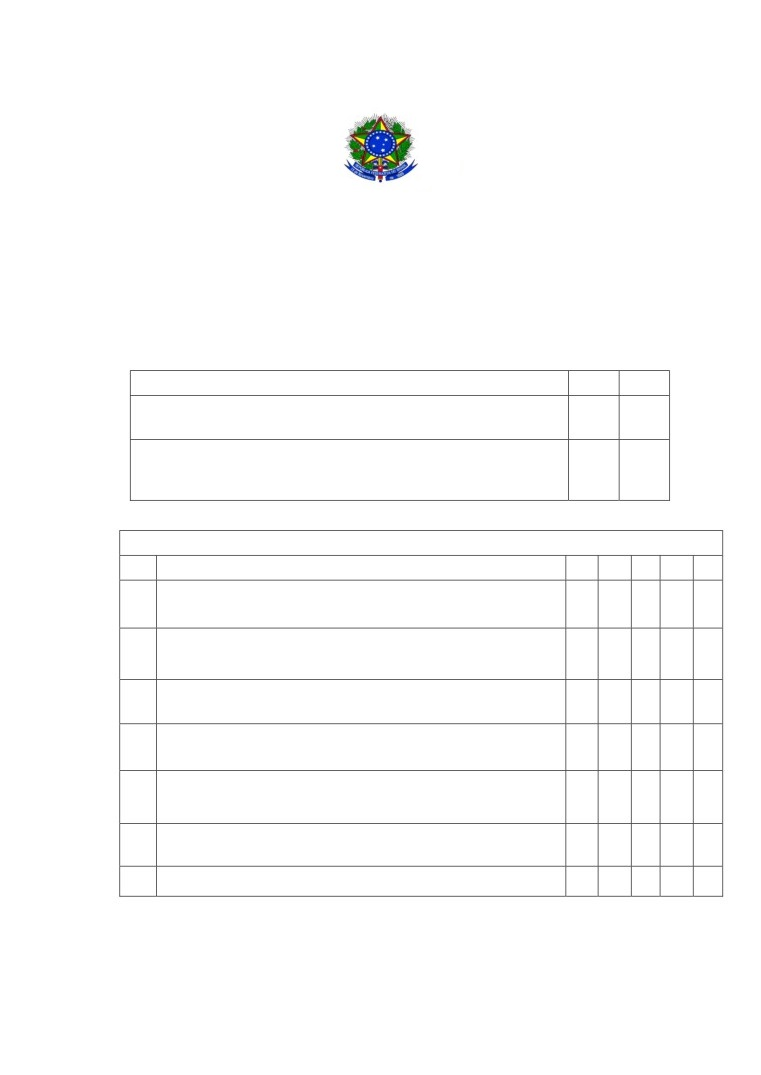
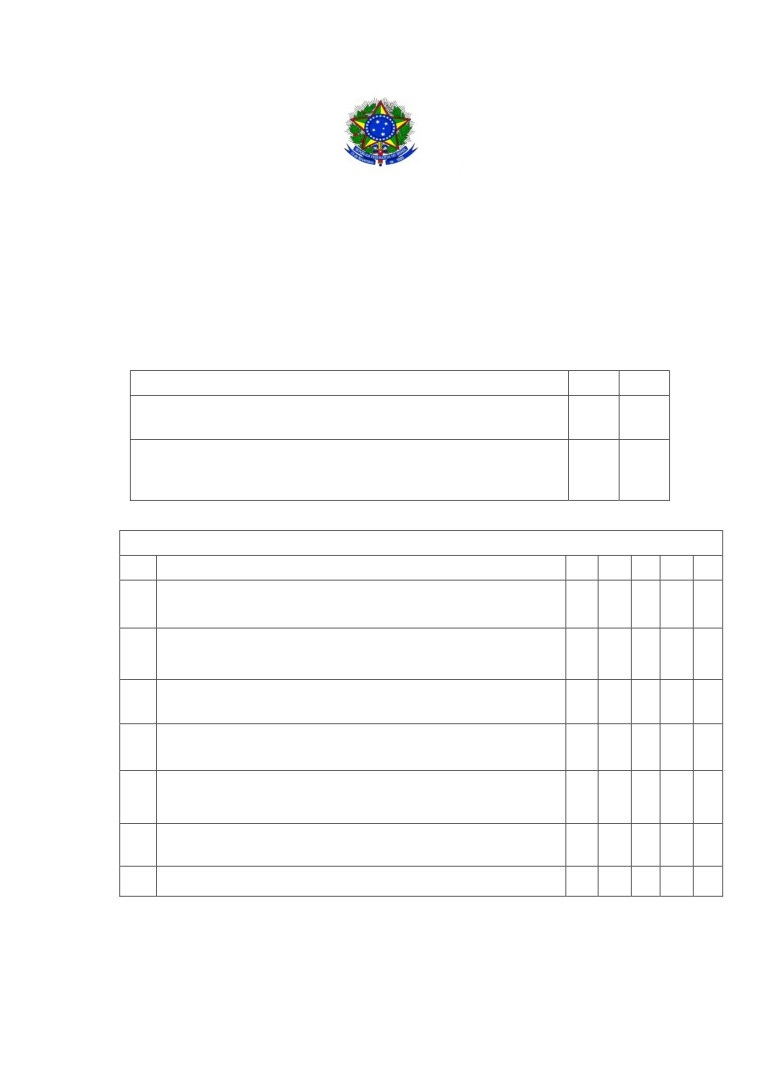
Update: formatacao dos pdfs

Changed region(s): [[0.4534, 0.0921, 0.544, 0.1842]]

diff --git a/PDFs/relatorioEstagio.php b/PDFs/relatorioEstagio.php
@@ -52,10 +52,14 @@ if ($result = $conexao->query($query)) {
         header("Location: ../login.php");
     } else {
         $nomeEmpresa = $resultado["nome"];
+        $cnpjEmpresa = $resultado["cnpjCpf"];
+        $enderecoEmpresa = $resultado["endereco"];
+        $bairroEmpresa = $resultado["bairro"];
         $cidadeEmpresa = $resultado["cidade"];
         $estadoEmpresa = $resultado["uf"];
-        $emailEmpresa = $resultado["email"];
+        $cepEmpresa = $resultado["cep"];   
         $telefoneEmpresa = $resultado["telefone"];
+        $emailEmpresa = $resultado["email"];
     }
 }
 
@@ -372,9 +376,9 @@ $string = '<html>
     <div style="position:absolute;left:50%;margin-left:-297px;top:0px;width:595px;height:841px;border-style:outset;overflow:hidden">
         <div style="position:absolute;left:0px;top:0px">
             <img src="HTML/relatorioEstagio/background1.jpg" width=595 height=841></div>
-        <div style="position:absolute;left:258.72px;top:139.96px" class="cls_003"><span class="cls_003">MINISTÉRIO DA EDUCAÇÃO</span></div>
-        <div style="position:absolute;left:195.48px;top:149.20px" class="cls_003"><span class="cls_003">SECRETARIA DE EDUCAÇÃO PROFISSIONAL E TECNOLÓGICA</span></div>
-        <div style="position:absolute;left:101.88px;top:158.32px" class="cls_003"><span class="cls_003">INSTITUTO FEDERAL DE EDUCAÇÃO, CIÊNCIA E TECNOLOGIA DO SUL DE MINAS GERAIS - CAMPUS POÇOS DE CALDAS</span></div>
+        <div style="position:absolute;left:242.72px;top:139.96px" class="cls_003"><span class="cls_003">MINISTÉRIO DA EDUCAÇÃO</span></div>
+        <div style="position:absolute;left:186.48px;top:149.20px" class="cls_003"><span class="cls_003">SECRETARIA DE EDUCAÇÃO PROFISSIONAL E TECNOLÓGICA</span></div>
+        <div style="position:absolute;left:82.88px;top:158.32px" class="cls_003"><span class="cls_003">INSTITUTO FEDERAL DE EDUCAÇÃO, CIÊNCIA E TECNOLOGIA DO SUL DE MINAS GERAIS - CAMPUS POÇOS DE CALDAS</span></div>
         <div style="position:absolute;left:138.12px;top:176.68px" class="cls_004"><span class="cls_004">Avenida Dirce Pereira Rosa, 300 - Jardim Esperança - CEP 37703-100 - Poços de Caldas (MG)</span></div>
         <div style="position:absolute;left:192.72px;top:184.00px" class="cls_004"><span class="cls_004">Telefone: (35) 3697-4950 / </span><A HREF="https://portal.pcs.ifsuldeminas.edu.br/">https://portal.pcs.ifsuldeminas.edu.br/</A> </span></div>
         <div style="position:absolute;left:400.92px;top:273.28px" class="cls_008"><span class="cls_008"><b>'.$nomeAluno.'</b></span></div>
@@ -387,9 +391,9 @@ $string = '<html>
     <div style="position:absolute;left:50%;margin-left:-297px;top:0px;width:595px;height:841px;border-style:outset;overflow:hidden">
         <div style="position:absolute;left:0px;top:0px">
             <img src="HTML/relatorioEstagio/background2.jpg" width=595 height=841></div>
-        <div style="position:absolute;left:258.72px;top:139.96px" class="cls_003"><span class="cls_003">MINISTÉRIO DA EDUCAÇÃO</span></div>
-        <div style="position:absolute;left:195.48px;top:149.20px" class="cls_003"><span class="cls_003">SECRETARIA DE EDUCAÇÃO PROFISSIONAL E TECNOLÓGICA</span></div>
-        <div style="position:absolute;left:101.88px;top:158.32px" class="cls_003"><span class="cls_003">INSTITUTO FEDERAL DE EDUCAÇÃO, CIÊNCIA E TECNOLOGIA DO SUL DE MINAS GERAIS - CAMPUS POÇOS DE CALDAS</span></div>
+        <div style="position:absolute;left:242.72px;top:139.96px" class="cls_003"><span class="cls_003">MINISTÉRIO DA EDUCAÇÃO</span></div>
+        <div style="position:absolute;left:186.48px;top:149.20px" class="cls_003"><span class="cls_003">SECRETARIA DE EDUCAÇÃO PROFISSIONAL E TECNOLÓGICA</span></div>
+        <div style="position:absolute;left:82.88px;top:158.32px" class="cls_003"><span class="cls_003">INSTITUTO FEDERAL DE EDUCAÇÃO, CIÊNCIA E TECNOLOGIA DO SUL DE MINAS GERAIS - CAMPUS POÇOS DE CALDAS</span></div>
         <div style="position:absolute;left:138.12px;top:176.68px" class="cls_004"><span class="cls_004">Avenida Dirce Pereira Rosa, 300 - Jardim Esperança - CEP 37703-100 - Poços de Caldas (MG)</span></div>
         <div style="position:absolute;left:192.72px;top:184.00px" class="cls_004"><span class="cls_004">Telefone: (35) 3697-4950 / </span><A HREF="https://portal.pcs.ifsuldeminas.edu.br/">https://portal.pcs.ifsuldeminas.edu.br/</A> </span></div>
         <div style="position:absolute;left:211.68px;top:215.56px" class="cls_014"><span class="cls_014"><b>RELATÓRIO DE ESTÁGIO</b></span></div>
@@ -409,9 +413,9 @@ $string = '<html>
     <div style="position:absolute;left:50%;margin-left:-297px;top:0px;width:595px;height:841px;border-style:outset;overflow:hidden">
         <div style="position:absolute;left:0px;top:0px">
             <img src="HTML/relatorioEstagio/background3.jpg" width=595 height=841></div>
-        <div style="position:absolute;left:258.72px;top:139.96px" class="cls_003"><span class="cls_003">MINISTÉRIO DA EDUCAÇÃO</span></div>
-        <div style="position:absolute;left:195.48px;top:149.20px" class="cls_003"><span class="cls_003">SECRETARIA DE EDUCAÇÃO PROFISSIONAL E TECNOLÓGICA</span></div>
-        <div style="position:absolute;left:101.88px;top:158.32px" class="cls_003"><span class="cls_003">INSTITUTO FEDERAL DE EDUCAÇÃO, CIÊNCIA E TECNOLOGIA DO SUL DE MINAS GERAIS - CAMPUS POÇOS DE CALDAS</span></div>
+        <div style="position:absolute;left:242.72px;top:139.96px" class="cls_003"><span class="cls_003">MINISTÉRIO DA EDUCAÇÃO</span></div>
+        <div style="position:absolute;left:186.48px;top:149.20px" class="cls_003"><span class="cls_003">SECRETARIA DE EDUCAÇÃO PROFISSIONAL E TECNOLÓGICA</span></div>
+        <div style="position:absolute;left:82.88px;top:158.32px" class="cls_003"><span class="cls_003">INSTITUTO FEDERAL DE EDUCAÇÃO, CIÊNCIA E TECNOLOGIA DO SUL DE MINAS GERAIS - CAMPUS POÇOS DE CALDAS</span></div>
         <div style="position:absolute;left:138.12px;top:176.68px" class="cls_004"><span class="cls_004">Avenida Dirce Pereira Rosa, 300 - Jardim Esperança - CEP 37703-100 - Poços de Caldas (MG)</span></div>
         <div style="position:absolute;left:192.72px;top:184.00px" class="cls_004"><span class="cls_004">Telefone: (35) 3697-4950 / </span><A HREF="https://portal.pcs.ifsuldeminas.edu.br/">https://portal.pcs.ifsuldeminas.edu.br/</A> </span></div>
         <div style="position:absolute;left:157.08px;top:202.24px" class="cls_005"><span class="cls_005">Relatório de Estágio apresentado como requisito para a conclusão do</span></div>
@@ -437,9 +441,9 @@ $string = '<html>
     <div style="position:absolute;left:50%;margin-left:-297px;top:0px;width:595px;height:841px;border-style:outset;overflow:hidden">
         <div style="position:absolute;left:0px;top:0px">
             <img src="HTML/relatorioEstagio/background4.jpg" width=595 height=841></div>
-        <div style="position:absolute;left:258.72px;top:139.96px" class="cls_003"><span class="cls_003">MINISTÉRIO DA EDUCAÇÃO</span></div>
-        <div style="position:absolute;left:195.48px;top:149.20px" class="cls_003"><span class="cls_003">SECRETARIA DE EDUCAÇÃO PROFISSIONAL E TECNOLÓGICA</span></div>
-        <div style="position:absolute;left:101.88px;top:158.32px" class="cls_003"><span class="cls_003">INSTITUTO FEDERAL DE EDUCAÇÃO, CIÊNCIA E TECNOLOGIA DO SUL DE MINAS GERAIS - CAMPUS POÇOS DE CALDAS</span></div>
+        <div style="position:absolute;left:242.72px;top:139.96px" class="cls_003"><span class="cls_003">MINISTÉRIO DA EDUCAÇÃO</span></div>
+        <div style="position:absolute;left:186.48px;top:149.20px" class="cls_003"><span class="cls_003">SECRETARIA DE EDUCAÇÃO PROFISSIONAL E TECNOLÓGICA</span></div>
+        <div style="position:absolute;left:82.88px;top:158.32px" class="cls_003"><span class="cls_003">INSTITUTO FEDERAL DE EDUCAÇÃO, CIÊNCIA E TECNOLOGIA DO SUL DE MINAS GERAIS - CAMPUS POÇOS DE CALDAS</span></div>
         <div style="position:absolute;left:138.12px;top:176.68px" class="cls_004"><span class="cls_004">Avenida Dirce Pereira Rosa, 300 - Jardim Esperança - CEP 37703-100 - Poços de Caldas (MG)</span></div>
         <div style="position:absolute;left:192.72px;top:184.00px" class="cls_004"><span class="cls_004">Telefone: (35) 3697-4950 / </span><A HREF="https://portal.pcs.ifsuldeminas.edu.br/">https://portal.pcs.ifsuldeminas.edu.br/</A> </span></div>
         <div style="position:absolute;left:85.08px;top:236.80px" class="cls_006"><span class="cls_006">2. DADOS DA INSTITUIÇÃO</span></div>
@@ -451,30 +455,28 @@ $string = '<html>
         <div style="position:absolute;left:85.08px;top:317.32px" class="cls_006"><span class="cls_006">E-MAIL:</span></div>
         <div style="position:absolute;left:85.08px;top:363.28px" class="cls_006"><span class="cls_006">3. DADOS DO ESTÁGIO</span></div>
         <div style="position:absolute;left:85.08px;top:386.32px" class="cls_006"><span class="cls_006">RAZÃO SOCIAL DA EMPRESA CONCEDENTE DO ESTÁGIO:</span></div>
-        <div style="position:absolute;left:85.08px;top:397.84px" class="cls_006"><span class="cls_006">CNPJ/CPF:</span></div>
-        <div style="position:absolute;left:85.08px;top:409.24px" class="cls_006"><span class="cls_006">ENDEREÇO:</span></div>
-        <div style="position:absolute;left:85.08px;top:420.76px" class="cls_006"><span class="cls_006">BAIRRO:</span></div>
-        <div style="position:absolute;left:85.08px;top:432.28px" class="cls_006"><span class="cls_006">CIDADE:</span></div>
-        <div style="position:absolute;left:85.08px;top:443.80px" class="cls_006"><span class="cls_006">UF(ESTADO):</span></div>
-        <div style="position:absolute;left:85.08px;top:455.32px" class="cls_006"><span class="cls_006">CEP:</span></div>
-        <div style="position:absolute;left:85.08px;top:466.84px" class="cls_006"><span class="cls_006">TELEFONE:</span></div>
-        <div style="position:absolute;left:85.08px;top:478.24px" class="cls_006"><span class="cls_006">E-MAIL:</span></div>
+        <div style="position:absolute;left:85.08px;top:397.84px" class="cls_006"><span class="cls_006">CNPJ/CPF: '.$cnpjEmpresa.'</span></div>
+        <div style="position:absolute;left:85.08px;top:409.24px" class="cls_006"><span class="cls_006">ENDEREÇO: '.$enderecoEmpresa.'</span></div>
+        <div style="position:absolute;left:85.08px;top:420.76px" class="cls_006"><span class="cls_006">BAIRRO: '.$bairroEmpresa.'</span></div>
+        <div style="position:absolute;left:85.08px;top:432.28px" class="cls_006"><span class="cls_006">CIDADE: '.$cidadeEmpresa.'</span></div>
+        <div style="position:absolute;left:85.08px;top:443.80px" class="cls_006"><span class="cls_006">UF(ESTADO): '.$estadoEmpresa.' </span></div>
+        <div style="position:absolute;left:85.08px;top:455.32px" class="cls_006"><span class="cls_006">CEP: '.$cepEmpresa.'</span></div>
+        <div style="position:absolute;left:85.08px;top:466.84px" class="cls_006"><span class="cls_006">TELEFONE: '.$telefoneEmpresa.'</span></div>
+        <div style="position:absolute;left:85.08px;top:478.24px" class="cls_006"><span class="cls_006">E-MAIL: '.$emailEmpresa.'</span></div>
         <div style="position:absolute;left:85.08px;top:489.76px" class="cls_006"><span class="cls_006">ÁREA DE ESTAGIO:</span></div>
-        <div style="position:absolute;left:85.08px;top:501.28px" class="cls_006"><span class="cls_006">PERÍODO DO ESTÁGIO: _____/_____/______ a</span></div>
-        <div style="position:absolute;left:318.45px;top:501.28px" class="cls_006"><span class="cls_006">_____/_____/_______</span></div>
-        <div style="position:absolute;left:85.08px;top:535.84px" class="cls_006"><span class="cls_006">CARGA TOTAL DE HORAS REALIZADAS: __________ horas.</span></div>
+        <div style="position:absolute;left:85.08px;top:501.28px" class="cls_006"><span class="cls_006">PERÍODO DO ESTÁGIO: '.$dataInicio.' a '.$dataFim.'</span></div>
+        <div style="position:absolute;left:85.08px;top:535.84px" class="cls_006"><span class="cls_006">CARGA TOTAL DE HORAS REALIZADAS: '.$cargaHoraria.' horas.</span></div>
         <div style="position:absolute;left:85.08px;top:558.76px" class="cls_006"><span class="cls_006">NOME E FORMAÇÃO DO SUPERVISOR RESPONSÁVEL PELO ACOMPANHAMENTO DO</span></div>
-        <div style="position:absolute;left:85.08px;top:568.24px" class="cls_006"><span class="cls_006">ESTÁGIO NA EMPRESA:</span></div>
-        <div style="position:absolute;left:85.08px;top:591.28px" class="cls_006"><span class="cls_006">NOME DO PROFESSOR ORIENTADOR DO ESTÁGIO:</span></div>
+        <div style="position:absolute;left:85.08px;top:568.24px" class="cls_006"><span class="cls_006">ESTÁGIO NA EMPRESA: '.$nomeSupervisor.', '.$cursoSupervisor.' </span></div>
+        <div style="position:absolute;left:85.08px;top:591.28px" class="cls_006"><span class="cls_006">NOME DO PROFESSOR ORIENTADOR DO ESTÁGIO: '.$nomeOrientador.'</span></div>
     </div>
     <h1 style="page-break-before: always;"></h1>
     <div style="position:absolute;left:50%;margin-left:-297px;top:0px;width:595px;height:841px;border-style:outset;overflow:hidden">
         <div style="position:absolute;left:0px;top:0px">
             <img src="HTML/relatorioEstagio/background5.jpg" width=595 height=841></div>
-        <div style="position:absolute;left:258.72px;top:139.96px" class="cls_003"><span class="cls_003">MINISTÉRIO DA EDUCAÇÃO</span></div>
-        <div style="position:absolute;left:195.48px;top:149.20px" class="cls_003"><span class="cls_003">SECRETARIA DE EDUCAÇÃO PROFISSIONAL E TECNOLÓGICA</span></div>
-        <div style="position:absolute;left:101.88px;top:158.32px" class="cls_003"><span class="cls_003">INSTITUTO FEDERAL DE EDUCAÇÃO, CIÊNCIA E TECNOLOGIA DO SUL DE MINAS GERAIS - CAMPUS POÇOS DE</span></div>
-        <div style="position:absolute;left:295.80px;top:167.56px" class="cls_003"><span class="cls_003">CALDAS</span></div>
+        <div style="position:absolute;left:242.72px;top:139.96px" class="cls_003"><span class="cls_003">MINISTÉRIO DA EDUCAÇÃO</span></div>
+        <div style="position:absolute;left:186.48px;top:149.20px" class="cls_003"><span class="cls_003">SECRETARIA DE EDUCAÇÃO PROFISSIONAL E TECNOLÓGICA</span></div>
+        <div style="position:absolute;left:82.88px;top:158.32px" class="cls_003"><span class="cls_003">INSTITUTO FEDERAL DE EDUCAÇÃO, CIÊNCIA E TECNOLOGIA DO SUL DE MINAS GERAIS - CAMPUS POÇOS DE CALDAS</span></div>
         <div style="position:absolute;left:138.12px;top:176.68px" class="cls_004"><span class="cls_004">Avenida Dirce Pereira Rosa, 300 - Jardim Esperança - CEP 37703-100 - Poços de Caldas (MG)</span></div>
         <div style="position:absolute;left:192.72px;top:184.00px" class="cls_004"><span class="cls_004">Telefone: (35) 3697-4950 / </span><A HREF="https://portal.pcs.ifsuldeminas.edu.br/">https://portal.pcs.ifsuldeminas.edu.br/</A> </span></div>
         <div style="position:absolute;left:85.08px;top:211.36px" class="cls_015"><span class="cls_015">3.1 DESCRIÇÃO DA EMPRESA </span><span class="cls_009">(fonte Arial, texto tamanho 12)</span></div>
@@ -518,9 +520,9 @@ $string = '<html>
     <div style="position:absolute;left:50%;margin-left:-297px;top:0px;width:595px;height:841px;border-style:outset;overflow:hidden">
         <div style="position:absolute;left:0px;top:0px">
             <img src="HTML/relatorioEstagio/background6.jpg" width=595 height=841></div>
-        <div style="position:absolute;left:258.72px;top:139.96px" class="cls_003"><span class="cls_003">MINISTÉRIO DA EDUCAÇÃO</span></div>
-        <div style="position:absolute;left:195.48px;top:149.20px" class="cls_003"><span class="cls_003">SECRETARIA DE EDUCAÇÃO PROFISSIONAL E TECNOLÓGICA</span></div>
-        <div style="position:absolute;left:101.88px;top:158.32px" class="cls_003"><span class="cls_003">INSTITUTO FEDERAL DE EDUCAÇÃO, CIÊNCIA E TECNOLOGIA DO SUL DE MINAS GERAIS - CAMPUS POÇOS DE</span></div>
+        <div style="position:absolute;left:242.72px;top:139.96px" class="cls_003"><span class="cls_003">MINISTÉRIO DA EDUCAÇÃO</span></div>
+        <div style="position:absolute;left:186.48px;top:149.20px" class="cls_003"><span class="cls_003">SECRETARIA DE EDUCAÇÃO PROFISSIONAL E TECNOLÓGICA</span></div>
+        <div style="position:absolute;left:82.88px;top:158.32px" class="cls_003"><span class="cls_003">INSTITUTO FEDERAL DE EDUCAÇÃO, CIÊNCIA E TECNOLOGIA DO SUL DE MINAS GERAIS - CAMPUS POÇOS DE</span></div>
         <div style="position:absolute;left:295.80px;top:167.56px" class="cls_003"><span class="cls_003">CALDAS</span></div>
         <div style="position:absolute;left:138.12px;top:176.68px" class="cls_004"><span class="cls_004">Avenida Dirce Pereira Rosa, 300 - Jardim Esperança - CEP 37703-100 - Poços de Caldas (MG)</span></div>
         <div style="position:absolute;left:192.72px;top:184.00px" class="cls_004"><span class="cls_004">Telefone: (35) 3697-4950 / </span><A HREF="https://portal.pcs.ifsuldeminas.edu.br/">https://portal.pcs.ifsuldeminas.edu.br/</A> </span></div>
@@ -532,9 +534,9 @@ $string = '<html>
     <div style="position:absolute;left:50%;margin-left:-297px;top:0px;width:595px;height:841px;border-style:outset;overflow:hidden">
         <div style="position:absolute;left:0px;top:0px">
             <img src="HTML/relatorioEstagio/background7.jpg" width=595 height=841></div>
-        <div style="position:absolute;left:258.72px;top:139.96px" class="cls_003"><span class="cls_003">MINISTÉRIO DA EDUCAÇÃO</span></div>
-        <div style="position:absolute;left:195.48px;top:149.20px" class="cls_003"><span class="cls_003">SECRETARIA DE EDUCAÇÃO PROFISSIONAL E TECNOLÓGICA</span></div>
-        <div style="position:absolute;left:101.88px;top:158.32px" class="cls_003"><span class="cls_003">INSTITUTO FEDERAL DE EDUCAÇÃO, CIÊNCIA E TECNOLOGIA DO SUL DE MINAS GERAIS - CAMPUS POÇOS DE</span></div>
+        <div style="position:absolute;left:242.72px;top:139.96px" class="cls_003"><span class="cls_003">MINISTÉRIO DA EDUCAÇÃO</span></div>
+        <div style="position:absolute;left:186.48px;top:149.20px" class="cls_003"><span class="cls_003">SECRETARIA DE EDUCAÇÃO PROFISSIONAL E TECNOLÓGICA</span></div>
+        <div style="position:absolute;left:82.88px;top:158.32px" class="cls_003"><span class="cls_003">INSTITUTO FEDERAL DE EDUCAÇÃO, CIÊNCIA E TECNOLOGIA DO SUL DE MINAS GERAIS - CAMPUS POÇOS DE</span></div>
         <div style="position:absolute;left:295.80px;top:167.56px" class="cls_003"><span class="cls_003">CALDAS</span></div>
         <div style="position:absolute;left:138.12px;top:176.68px" class="cls_004"><span class="cls_004">Avenida Dirce Pereira Rosa, 300 - Jardim Esperança - CEP 37703-100 - Poços de Caldas (MG)</span></div>
         <div style="position:absolute;left:192.72px;top:184.00px" class="cls_004"><span class="cls_004">Telefone: (35) 3697-4950 / </span><A HREF="https://portal.pcs.ifsuldeminas.edu.br/">https://portal.pcs.ifsuldeminas.edu.br/</A> </span></div>
@@ -584,9 +586,9 @@ $string = '<html>
     <div style="position:absolute;left:50%;margin-left:-297px;top:0px;width:595px;height:841px;border-style:outset;overflow:hidden">
         <div style="position:absolute;left:0px;top:0px">
             <img src="HTML/relatorioEstagio/background8.jpg" width=595 height=841></div>
-        <div style="position:absolute;left:258.72px;top:139.96px" class="cls_003"><span class="cls_003">MINISTÉRIO DA EDUCAÇÃO</span></div>
-        <div style="position:absolute;left:195.48px;top:149.20px" class="cls_003"><span class="cls_003">SECRETARIA DE EDUCAÇÃO PROFISSIONAL E TECNOLÓGICA</span></div>
-        <div style="position:absolute;left:101.88px;top:158.32px" class="cls_003"><span class="cls_003">INSTITUTO FEDERAL DE EDUCAÇÃO, CIÊNCIA E TECNOLOGIA DO SUL DE MINAS GERAIS - CAMPUS POÇOS DE</span></div>
+        <div style="position:absolute;left:242.72px;top:139.96px" class="cls_003"><span class="cls_003">MINISTÉRIO DA EDUCAÇÃO</span></div>
+        <div style="position:absolute;left:186.48px;top:149.20px" class="cls_003"><span class="cls_003">SECRETARIA DE EDUCAÇÃO PROFISSIONAL E TECNOLÓGICA</span></div>
+        <div style="position:absolute;left:82.88px;top:158.32px" class="cls_003"><span class="cls_003">INSTITUTO FEDERAL DE EDUCAÇÃO, CIÊNCIA E TECNOLOGIA DO SUL DE MINAS GERAIS - CAMPUS POÇOS DE</span></div>
         <div style="position:absolute;left:295.80px;top:167.56px" class="cls_003"><span class="cls_003">CALDAS</span></div>
         <div style="position:absolute;left:138.12px;top:176.68px" class="cls_004"><span class="cls_004">Avenida Dirce Pereira Rosa, 300 - Jardim Esperança - CEP 37703-100 - Poços de Caldas (MG)</span></div>
         <div style="position:absolute;left:192.72px;top:184.00px" class="cls_004"><span class="cls_004">Telefone: (35) 3697-4950 / </span><A HREF="https://portal.pcs.ifsuldeminas.edu.br/">https://portal.pcs.ifsuldeminas.edu.br/</A> </span></div>

diff --git a/PDFs/planoEstagio.php b/PDFs/planoEstagio.php
@@ -186,20 +186,20 @@ $string = '<html>
         <div style="position:absolute;left:178.44px;top:126.76px" class="cls_004"><span class="cls_004">Telefone: (35) 3697-4950 / </span><A HREF="https://portal.pcs.ifsuldeminas.edu.br/">https://portal.pcs.ifsuldeminas.edu.br/</A> </span></div>
         <div style="position:absolute;left:242.88px;top:143.80px" class="cls_006"><span class="cls_006">PLANO DE ESTÁGIO</span></div>
         <div style="position:absolute;left:42.48px;top:167.08px" class="cls_004"><span class="cls_004">1. IDENTIFICAÇÃO DO(A) ESTAGIÁRIO(A) E DO PROFESSOR ORIENTADOR</span></div>
-        <div style="position:absolute;left:51.12px;top:187.48px" class="cls_004"><span class="cls_004">Aluno(a):</span><br/><b>'.$nomeAluno.'<b/></div>
-        <div style="position:absolute;left:51.12px;top:218.32px" class="cls_004"><span class="cls_004">Matrícula (R.A):</span><br/><b>'.$raAluno.'<b/></div>
-        <div style="position:absolute;left:51.12px;top:249.04px" class="cls_004"><span class="cls_004">Curso:</span><br/><b>'.$cursoAluno.'<b/></div>
-        <div style="position:absolute;left:277.66px;top:249.04px" class="cls_004"><span class="cls_004">Módulo/Ano:</span><br/><b>'.$moduloAno.'<b/></div>
-        <div style="position:absolute;left:334.68px;top:249.04px" class="cls_004"><span class="cls_004">Modalidade:</span><br/><b>'.$modalidade.'<b/></div>
-        <div style="position:absolute;left:51.12px;top:279.76px" class="cls_004"><span class="cls_004">Nome completo do(a) professor(a) Orientador(a):</span><br/><b>'.$nomeOrientador.'<b/></div>
-        <div style="position:absolute;left:51.12px;top:310.48px" class="cls_004"><span class="cls_004">Telefone do orientador:</span><br/><b>'.$telefoneOrientador.'<b/></div>
-        <div style="position:absolute;left:303.15px;top:310.48px" class="cls_004"><span class="cls_004">E-mail do orientador:</span><br/><b>'.$emailOrientador.'<b/></div>
-        <div style="position:absolute;left:67.32px;top:350.80px" class="cls_004"><span class="cls_004">2. IDENTIFICAÇÃO DA EMPRESA E DO SUPERVISOR DE ESTÁGIO</span></div>
+        <div style="position:absolute;left:43.12px;top:189.48px" class="cls_004"><span class="cls_004">Aluno(a):</span><br/><b>'.$nomeAluno.'<b/></div>
+        <div style="position:absolute;left:43.12px;top:220.32px" class="cls_004"><span class="cls_004">Matrícula (R.A):</span><br/><b>'.$raAluno.'<b/></div>
+        <div style="position:absolute;left:43.12px;top:251.04px" class="cls_004"><span class="cls_004">Curso:</span><br/><b>'.$cursoAluno.'<b/></div>
+        <div style="position:absolute;left:269.66px;top:251.04px" class="cls_004"><span class="cls_004">Módulo/Ano:</span><br/><b>'.$moduloAno.'<b/></div>
+        <div style="position:absolute;left:326.00px;top:251.04px" class="cls_004"><span class="cls_004">Modalidade:</span><br/><b>'.$modalidade.'<b/></div>
+        <div style="position:absolute;left:43.12px;top:281.76px" class="cls_004"><span class="cls_004">Nome completo do(a) professor(a) Orientador(a):</span><br/><b>'.$nomeOrientador.'<b/></div>
+        <div style="position:absolute;left:43.12px;top:312.48px" class="cls_004"><span class="cls_004">Telefone do orientador:</span><br/><b>'.$telefoneOrientador.'<b/></div>
+        <div style="position:absolute;left:296.15px;top:312.48px" class="cls_004"><span class="cls_004">E-mail do orientador:</span><br/><b>'.$emailOrientador.'<b/></div>
+        <div style="position:absolute;left:42.48px;top:350.80px" class="cls_004"><span class="cls_004">2. IDENTIFICAÇÃO DA EMPRESA E DO SUPERVISOR DE ESTÁGIO</span></div>
         <div style="position:absolute;left:42.48px;top:377.32px" class="cls_004"><span class="cls_004">Nome da empresa:</span><br/><b>'.$nomeEmpresa.'<b/></div>
         <div style="position:absolute;left:42.48px;top:408.04px" class="cls_004"><span class="cls_004">E-mail da empresa:</span><br/><b>'.$emailEmpresa.'<b/></div>
         <div style="position:absolute;left:359.60px;top:408.04px" class="cls_004"><span class="cls_004">Telefone de contato da empresa:</span><br/><b>'.$telefoneEmpresa.'<b/></div>
         <div style="position:absolute;left:42.48px;top:441.76px" class="cls_004"><span class="cls_004">Supervisor(a) de Estágio:</span><br/><b>'.$nomeSupervisor.'<b/></div>
-        <div style="position:absolute;left:361.93px;top:441.76px" class="cls_004"><span class="cls_004">CPF do(a) supervisor(a):</span><br/><b>'.$cpfSupervisor.'<b/></div>
+        <div style="position:absolute;left:359.93px;top:441.76px" class="cls_004"><span class="cls_004">CPF do(a) supervisor(a):</span><br/><b>'.$cpfSupervisor.'<b/></div>
         <div style="position:absolute;left:42.48px;top:475.48px" class="cls_004"><span class="cls_004">Curso de formação do(a) supervisor(a) de estágio:</span><br/><b>'.$cursoSupervisor.'<b/></div>
         <div style="position:absolute;left:359.66px;top:475.48px" class="cls_004"><span class="cls_004">Conselho de Classe Profissional (se houver):</span><br/><b>'.$conselhoDeClasse.'<b/></div>
         <div style="position:absolute;left:42.48px;top:511.24px" class="cls_004"><span class="cls_004">O(A) supervisor(a) de estágio possui experiência profissional na área do estágio:</span><br/><b>'.$possuiExperiencia.'<b/></div>

diff --git a/PDFs/frequenciaEstagio.php b/PDFs/frequenciaEstagio.php
@@ -186,7 +186,7 @@ $string = '<html>
         <div style="position:absolute;left:168.80px;top:131.70px" class="cls_004"><span class="cls_004">Fone: (35)
                 3713-5120 / (35) 3722-0598 / </span><A
                 HREF="http://www.pcs.ifsuldeminas.edu.br/">www.pcs.ifsuldeminas.edu.br</A> </span></div>
-        <div style="position:absolute;left:206.40px;top:148.80px" class="cls_006"><span class="cls_006">FREQUÊNCIA DO
+        <div style="position:absolute;left:206.40px;top:148.80px" class="cls_006"><span class="cls_006">FREQUÊNCIA DE
                 ESTÁGIO</span></div>
         <div style="position:absolute;left:470.50px;top:162.60px" class="cls_006"><span class="cls_006">FOLHA Nº
                 ______</span></div>
@@ -197,12 +197,12 @@ $string = '<html>
         <div style="position:absolute;left:362.90px;top:210.20px" class="cls_007"><span class="cls_007">Modalidade:</span><br/><b>'.$modalidadeAluno.'</b></div>
         <div style="position:absolute;left:25.40px;top:239.90px" class="cls_007"><span class="cls_007">Empresa: </span><b>'.$nomeEmpresa.'</b></div>
         <div style="position:absolute;left:288.80px;top:239.90px" class="cls_007"><span class="cls_007">Período do estágio: </span><b>'.$dataInicialEstagio.'</b> a <b>'.$dataFinalEstagio.'</b></div>
-        <div style="position:absolute;left:77.90px;top:277.60px" class="cls_008"><span class="cls_008">Presença</span></div>
+        <div style="position:absolute;left:77.90px;top:281.60px" class="cls_008"><span class="cls_008">Presença</span></div>
         <div style="position:absolute;left:237.00px;top:291.40px" class="cls_008"><span class="cls_008">Setor</span></div>
         <div style="position:absolute;left:393.90px;top:291.40px" class="cls_008"><span class="cls_008">Atividade desenvolvida</span></div>
-        <div style="position:absolute;left:52.80px;top:297.50px" class="cls_008"><span class="cls_008">Data</span></div>
-        <div style="position:absolute;left:119.50px;top:297.50px" class="cls_008"><span class="cls_008">Carga horária</span></div>
-        <div style="position:absolute;left:43.50px;top:694.50px" class="cls_008"><span class="cls_008">TOTAL DE</span></div>
+        <div style="position:absolute;left:52.80px;top:301.50px" class="cls_008"><span class="cls_008">Data</span></div>
+        <div style="position:absolute;left:119.50px;top:301.50px" class="cls_008"><span class="cls_008">Carga horária</span></div>
+        <div style="position:absolute;left:43.50px;top:695.80px" class="cls_008"><span class="cls_008">TOTAL DE</span></div>
         <div style="position:absolute;left:50.70px;top:706.00px" class="cls_008"><span class="cls_008">HORAS</span></div>
         <div style="position:absolute;left:226.80px;top:743.40px" class="cls_008"><span class="cls_008">Data:</span><span class="cls_007"> ______/______/__________</span></div>
         <div style="position:absolute;left:150.30px;top:774.80px" class="cls_007"><span class="cls_007">___________________________________________________________</span></div>
